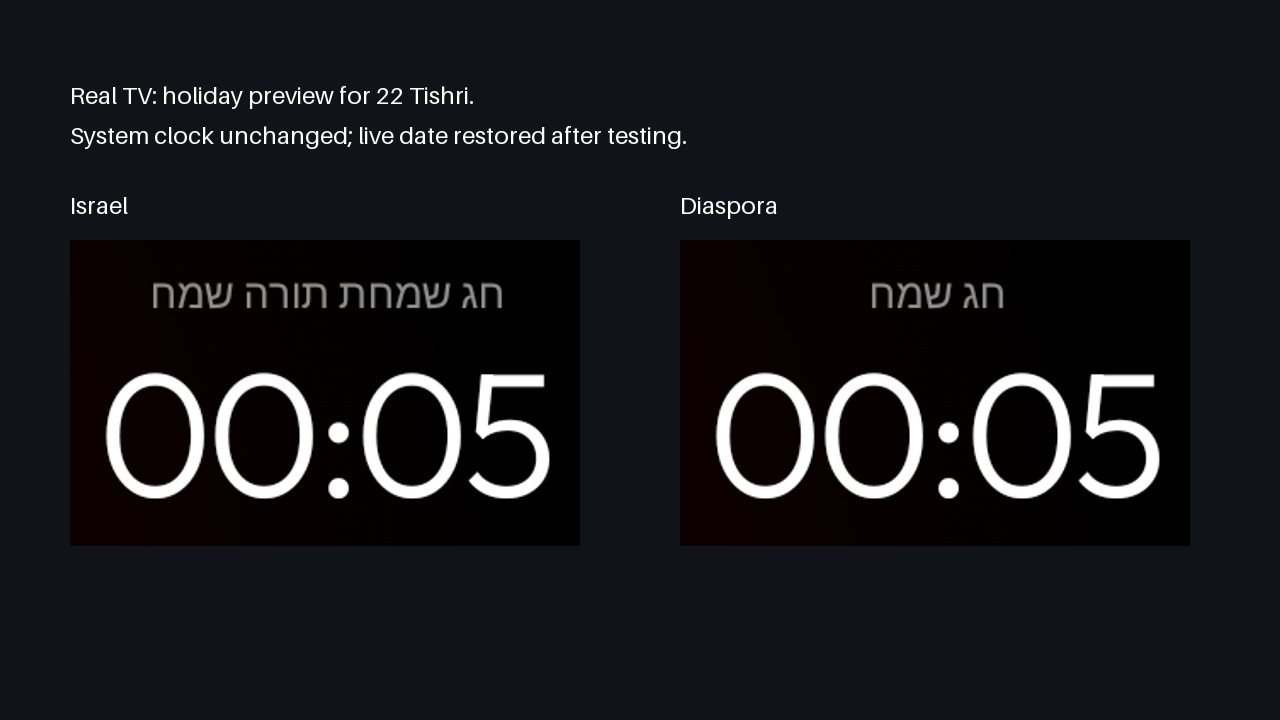
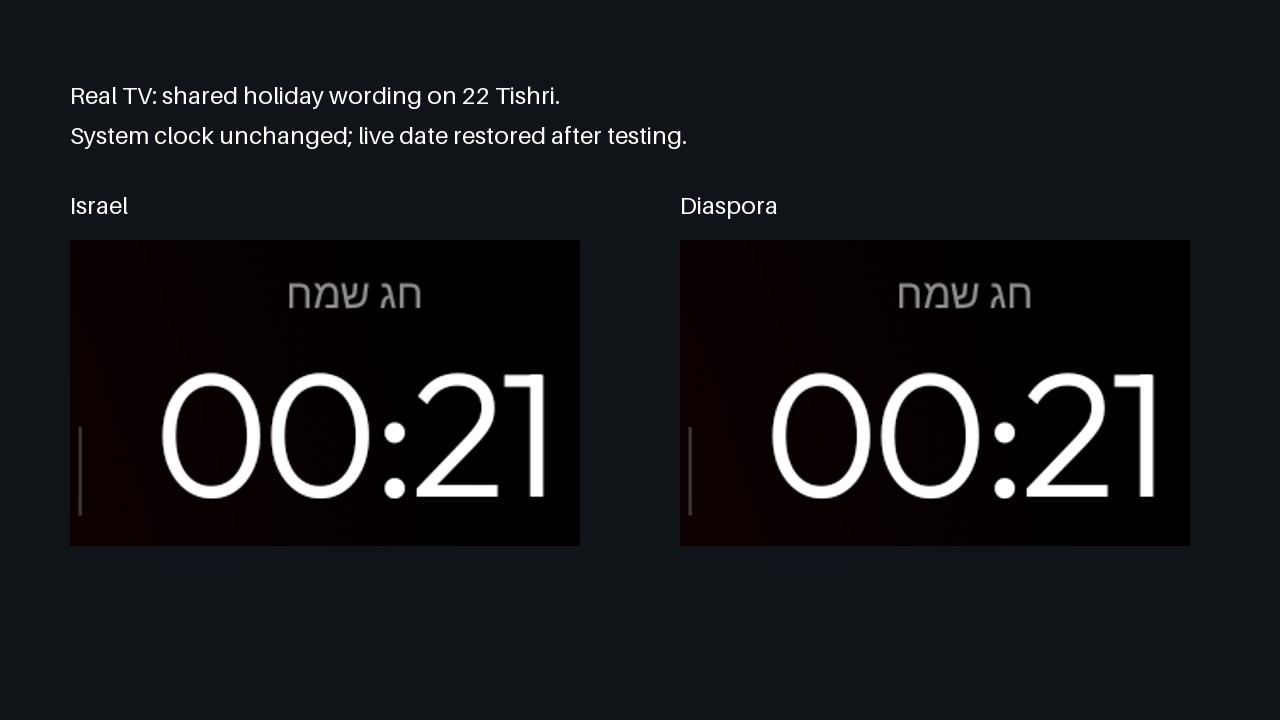
Launcher: refine Hebrew date order, year and holiday wording

diff --git a/launcher/app/src/test/java/com/gathin/tvhome/JewishDateTest.java b/launcher/app/src/test/java/com/gathin/tvhome/JewishDateTest.java
@@ -38,9 +38,9 @@ public class JewishDateTest {
         assertEquals(0, JewishDate.holiday(0, 3, 30, true));
         assertEquals(R.string.jewish_yom_kippur, JewishDate.holiday(0, 10, 30, true));
         assertEquals(R.string.jewish_happy_holiday, JewishDate.holiday(0, 21, 30, true));
-        assertEquals(R.string.jewish_simchat_torah, JewishDate.holiday(0, 22, 30, true));
+        assertEquals(R.string.jewish_happy_holiday, JewishDate.holiday(0, 22, 30, true));
         assertEquals(R.string.jewish_happy_holiday, JewishDate.holiday(0, 22, 30, false));
-        assertEquals(R.string.jewish_simchat_torah, JewishDate.holiday(0, 23, 30, false));
+        assertEquals(R.string.jewish_happy_holiday, JewishDate.holiday(0, 23, 30, false));
         assertEquals(0, JewishDate.holiday(0, 23, 30, true));
         assertEquals(R.string.jewish_happy_holiday, JewishDate.holiday(7, 22, 30, false));
         assertEquals(0, JewishDate.holiday(7, 22, 30, true));
@@ -50,6 +50,15 @@ public class JewishDateTest {
         assertEquals(R.string.jewish_purim, JewishDate.holiday(6, 14, 30, true));
         assertEquals(R.string.jewish_purim, JewishDate.holiday(6, 15, 30, true));
     }
+    @Test public void omitYearThousandsWithoutChangingDaysOrLeapMonths() {
+        assertEquals("ה׳ בחשוון תשפ״ז", JewishDate.withoutMillennium("ה׳ בחשוון ה׳תשפ״ז"));
+        assertEquals("ט״ו באדר א׳ תשפ״ד", JewishDate.withoutMillennium("ט״ו באדר א׳ ה׳תשפ״ד"));
+        assertEquals("ט״ז באדר ב׳ תשפ״ד", JewishDate.withoutMillennium("ט״ז באדר ב׳ ה׳תשפ״ד"));
+        assertEquals("י״ג בחשוון תשפ״ז", JewishDate.withoutMillennium("י״ג בחשוון ה׳תשפ״ז"));
+        assertEquals("א׳ בתשרי ה׳", JewishDate.withoutMillennium("א׳ בתשרי ה׳"));
+        assertEquals("13 Heshvan 5787", JewishDate.withoutMillennium("13 Heshvan 5787"));
+    }
+
     @Test public void hanukkahHasEightDaysWithShortOrLongKislev() {
         for (int length : new int[]{29, 30}) {
             int count = 0;

diff --git a/launcher/app/src/main/java/com/gathin/tvhome/JewishDate.java b/launcher/app/src/main/java/com/gathin/tvhome/JewishDate.java
@@ -84,7 +84,13 @@ final class JewishDate {
                         : new ULocale(locale.toString() + "@calendar=hebrew"));
         HebrewCalendar calendar = calendar(day);
         format.setCalendar(calendar);
-        return format.format(calendar.getTime());
+        String text = format.format(calendar.getTime());
+        return he ? withoutMillennium(text) : text;
+    }
+
+    /** Omit only a year's thousands prefix; preserve day 5 and Adar I/II markers. */
+    static String withoutMillennium(String text) {
+        return text.replaceFirst(" [א-ט]׳(?=[א-ת׳״]+$)", " ");
     }
 
     int greeting(LocalDate day, Locale locale) {
@@ -102,8 +108,8 @@ final class JewishDate {
             if (day == 1 || day == 2) return R.string.jewish_rosh_hashanah;
             if (day == 10) return R.string.jewish_yom_kippur;
             if (day >= 15 && day <= 21) return R.string.jewish_happy_holiday;
-            if (day == 22) return israel ? R.string.jewish_simchat_torah : R.string.jewish_happy_holiday;
-            if (day == 23 && !israel) return R.string.jewish_simchat_torah;
+            if (day == 22) return R.string.jewish_happy_holiday;
+            if (day == 23 && !israel) return R.string.jewish_happy_holiday;
         }
         if ((month == 2 && day >= 25 && day <= kislevDays)
                 || (month == 3 && day >= 1 && day <= 32 - kislevDays)) return R.string.jewish_hanukkah;

diff --git a/launcher/app/src/main/java/com/gathin/tvhome/MainActivity.java b/launcher/app/src/main/java/com/gathin/tvhome/MainActivity.java
@@ -454,6 +454,9 @@ public class MainActivity extends Activity implements AppAdapter.TileListener {
             }
             if (jewishDate != null && jewishDate.showDate) {
                 shamsiDate.getLayoutParams().width = ViewGroup.LayoutParams.WRAP_CONTENT;
+                ViewGroup dates = (ViewGroup) shamsiDate.getParent();
+                dates.removeView(shamsiDate);
+                dates.addView(shamsiDate);
             }
             shamsiDate.setVisibility(View.VISIBLE);
             TextView date = findViewById(R.id.date);

diff --git a/themes/README.md b/themes/README.md
@@ -70,7 +70,7 @@ A new key needs one there in the same pull request.
 | `app_library_selection` | bool | OK toggles Home checkmarks in the library; checked apps first, both groups alphabetized. Hiding keeps focus on the adjacent next app (previous at the end). Requires `app_library`; `false` preserves the standard open/long-press behavior |
 | `library_apps` | list of package names | Packages pre-seeded into the App library's "added" set at startup (config.xml `library_apps`, or a theme's `config.json`). They show on Home as if the owner had added them in the App library UI, and stay removable there (a removed one stays hidden); empty (off) by default |
 | `shamsi_date` | bool | Show the Solar Hijri date above the Gregorian one |
-| `hebrew_date` | bool | Off by default; show the Hebrew calendar date above the Gregorian one. Requires the manual location described below for offline sunset rollover |
+| `hebrew_date` | bool | Off by default; show the Hebrew calendar date below the Gregorian one. Requires the manual location described below for offline sunset rollover |
 | `jewish_holiday_greetings` | bool | Off by default; replace the normal greeting during major Jewish holidays, Hanukkah and Purim (including Shushan Purim). An explicit festival-theme greeting has priority |
 | `jewish_holiday_region` | string | `auto` (default): country `IL` uses Israel, other countries use Diaspora; Hebrew without a country uses Israel. Override with `israel` or `diaspora` |
 | `greeting_name` | string | A name after the greeting, e.g. `"Mr. Trịnh"` for GOOD MORNING, MR. TRỊNH; empty for the greeting alone |
@@ -222,3 +222,7 @@ other languages use ICU's localized Hebrew-calendar month names. Existing explic
 
 Calendar validation uses [Hebcal's converter and holiday API](https://www.hebcal.com/home/developer-apis)
 on the development computer only; the launcher never calls them.
+
+The Gregorian date stays on top of the optional Hebrew date. Hebrew years omit the thousands prefix
+(for example תשפ״ז); day-number and Adar I/II marks remain intact. Shemini Atzeret and Simchat Torah use
+the same general holiday greeting in Israel and the Diaspora, while their observed dates still differ.
